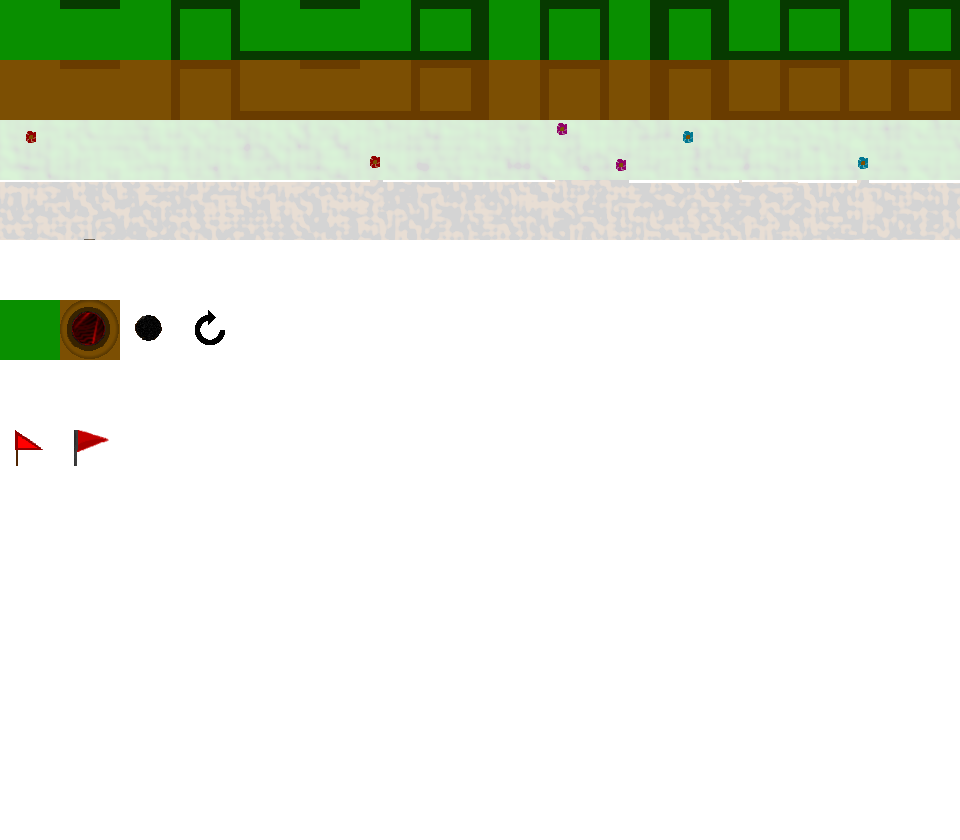
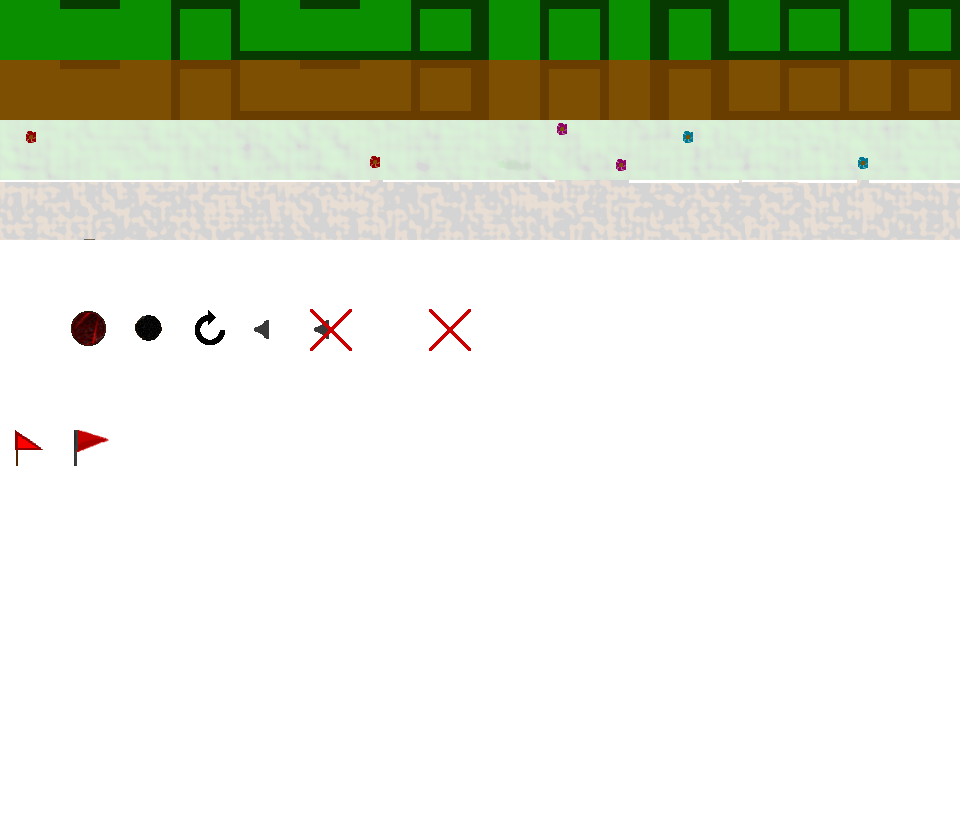
update exploded mine draw texture

diff --git a/src/grid.cpp b/src/grid.cpp
@@ -46,7 +46,7 @@ void load() {
 		{7, PURPLE},
 		{8, BLACK}
 	};
-	tileMapTexture = LoadTexture("assets/tilemap.png");
+
 	static const float sts = 60; // sprite tile size
 	for (int i = 0; i <= 1; i++) {
 		int v = i + 2;
@@ -61,6 +61,7 @@ void load() {
 	specialSpriteMap.emplace(EXPLODE, Rectangle{60, 300, sts, sts});
 	specialSpriteMap.emplace(MINE, Rectangle{120, 300, sts, sts});
 
+	tileMapTexture = LoadTexture("assets/tilemap.png");
 	kaboom = LoadSound("assets/Big_Explosion_Cut_Off.mp3");
 	flagPlace = LoadSound("assets/flag.mp3");
 	flagPop = LoadSound("assets/flagPop.mp3");
@@ -105,10 +106,9 @@ void drawQuad(Rectangle quad, Rectangle at) {
 }
 void Cell::render(float tileSize) {
 	Rectangle l = {x * tileSize, y * tileSize, tileSize, tileSize};
-	Rectangle quad = spriteMap.at(!hidden).at(spriteVal);
-	if (exploded) quad = quadOverride;
-	drawQuad(quad, l);
+	drawQuad(spriteMap.at(!hidden).at(spriteVal), l);
 	drawQuad(spriteMap.at(!hidden + 2).at(variant), l);
+	if (exploded) drawQuad(specialSpriteMap.at(EXPLODE), l);
 	if (mine && !hidden && !exploded) drawQuad(specialSpriteMap.at(MINE), l);
 	if (flagged) drawQuad(specialSpriteMap.at(FLAG), l);
 
